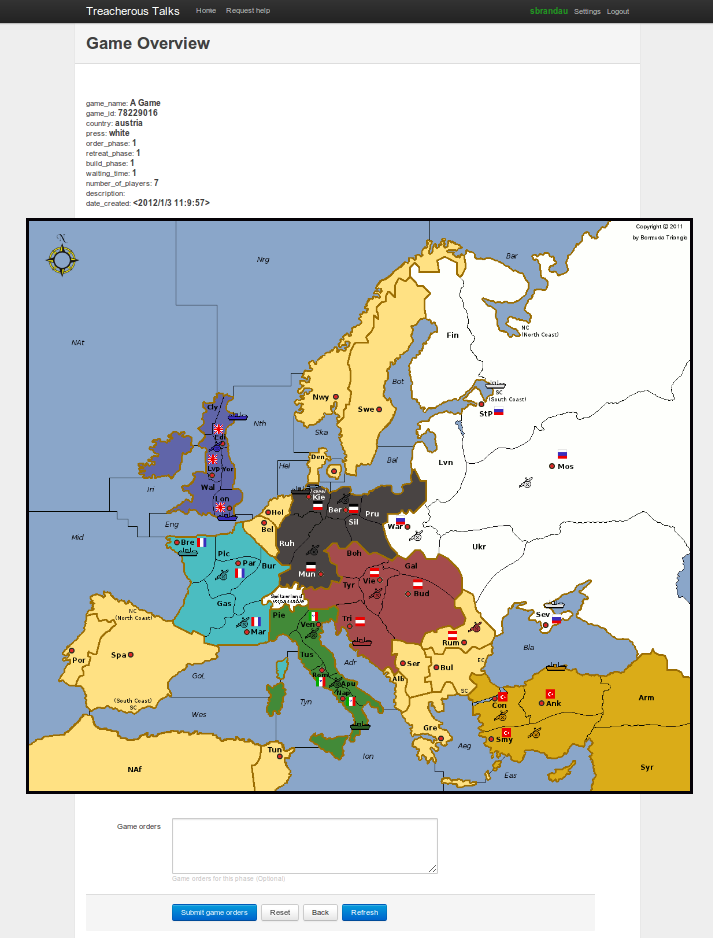
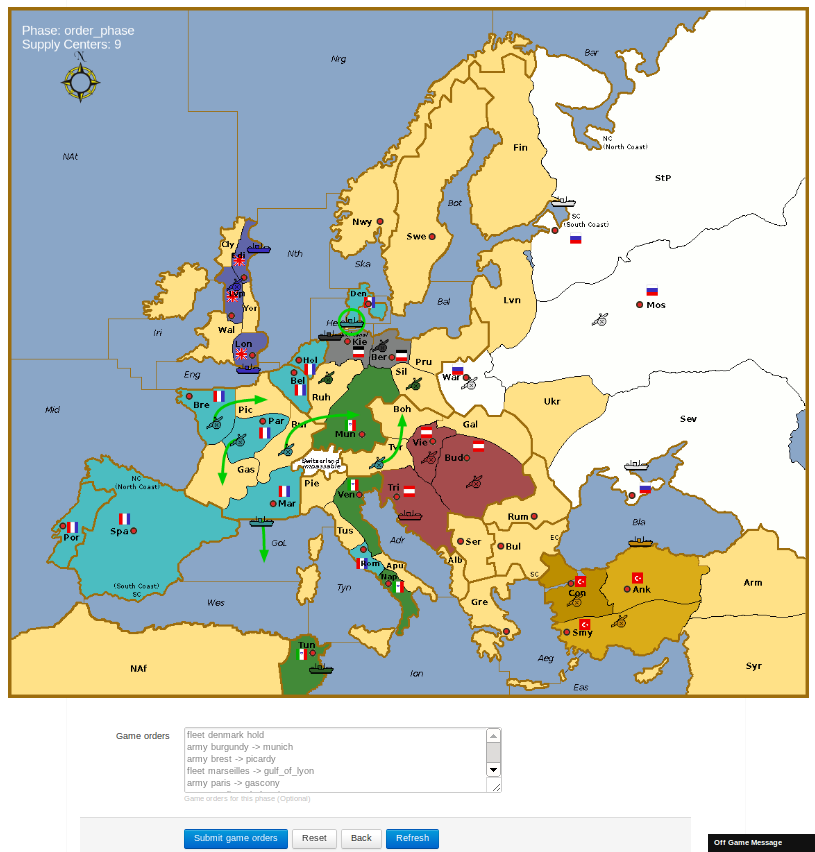
Prod_rep update dropdown-list to interactive game map

diff --git a/product_rep/product_rep.tex b/product_rep/product_rep.tex
@@ -818,8 +818,9 @@ frontends:
 \item The user does not need to remember his session id.
 \item The user sees a graphical map (generated using a HTML5 canvas),
   see Fig.~\ref{fig:map}.
-\item It is easier to enter move orders because possible orders are represented
-  as drop-down lists, see Fig.~\ref{fig:orders}.
+\item It allows users to have a better gaming experience since the graphical map
+is interactive. By simply clicking and dragging the pieces on the map,
+corresponding orders will be automatically generated, see Fig.~\ref{fig:orders}.
 \end{itemize}
 
 \begin{figure}[h]
@@ -832,7 +833,7 @@ frontends:
 \begin{figure}[h]
  \centering
  \includegraphics[width=\textwidth]{./graphics/orderssmall.png}
- \caption{The orders drop-down lists.}
+ \caption{The generated orders.}
  \label{fig:orders}
 \end{figure}
 
@@ -875,11 +876,12 @@ Appendix \ref{sec:textbasedcmd} contains more detailed information on
 interaction through the text based interfaces.
 
 \section{Playing}
-The web frontend generates drop down lists to make it easier for the user to
-enter move orders as shown in Fig.~\ref{fig:orders}. \\
-The other two frontends (XMPP and SMTP) take text based orders. Instead of
-clicking, the user has to type them and additionally is required to supply
-his session ID which he receives after logging in.
+For game play, as is mentioned in previous sections, the web frontend provides
+an interactive interface which is much more convenient than typing text orders
+for beginners. (Fig.~\ref{fig:orders}). \\
+On the contrary, the other two frontends (XMPP and SMTP) have to take text
+based orders. Instead of clicking, the user has to type them and additionally
+is required to supply his session ID which he receives after logging in.
 A full list of how to make text based plays can be found in appendix
 \ref{sec:textbasedcommands}.
 
